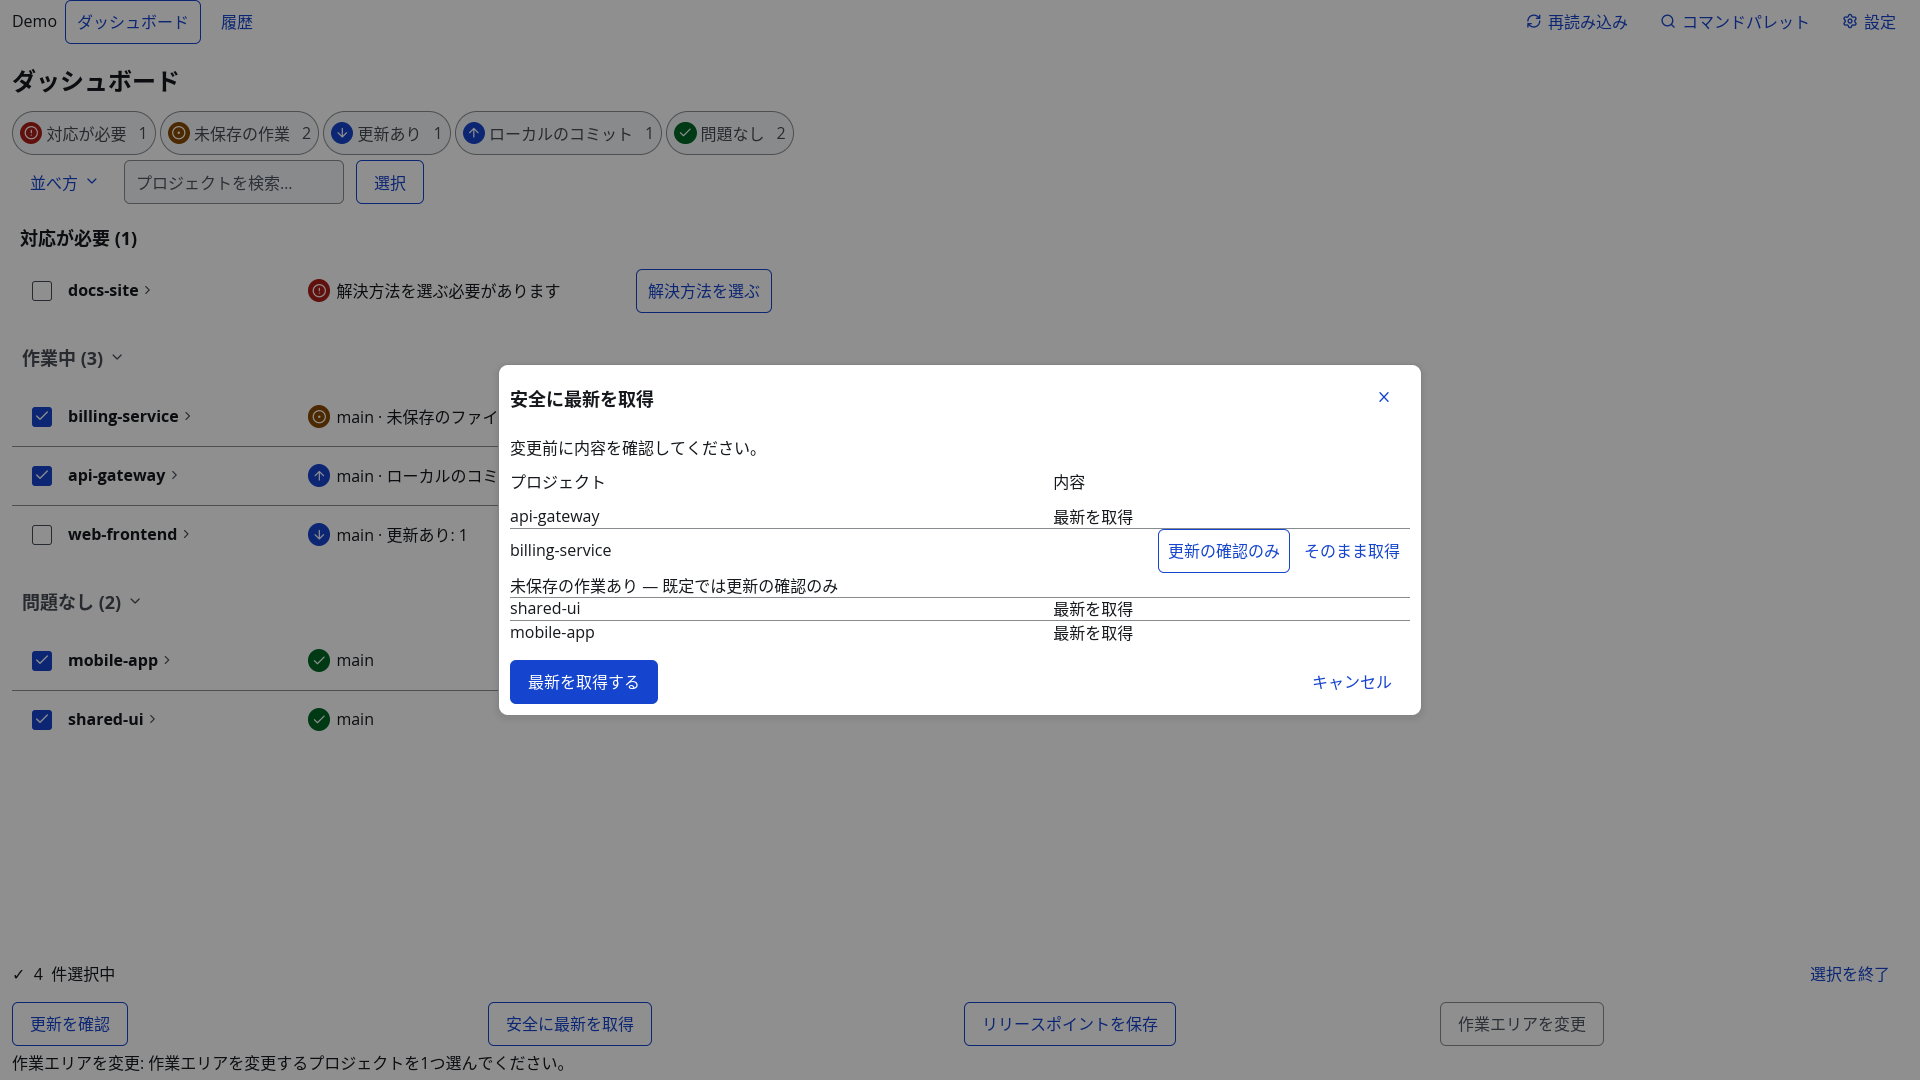
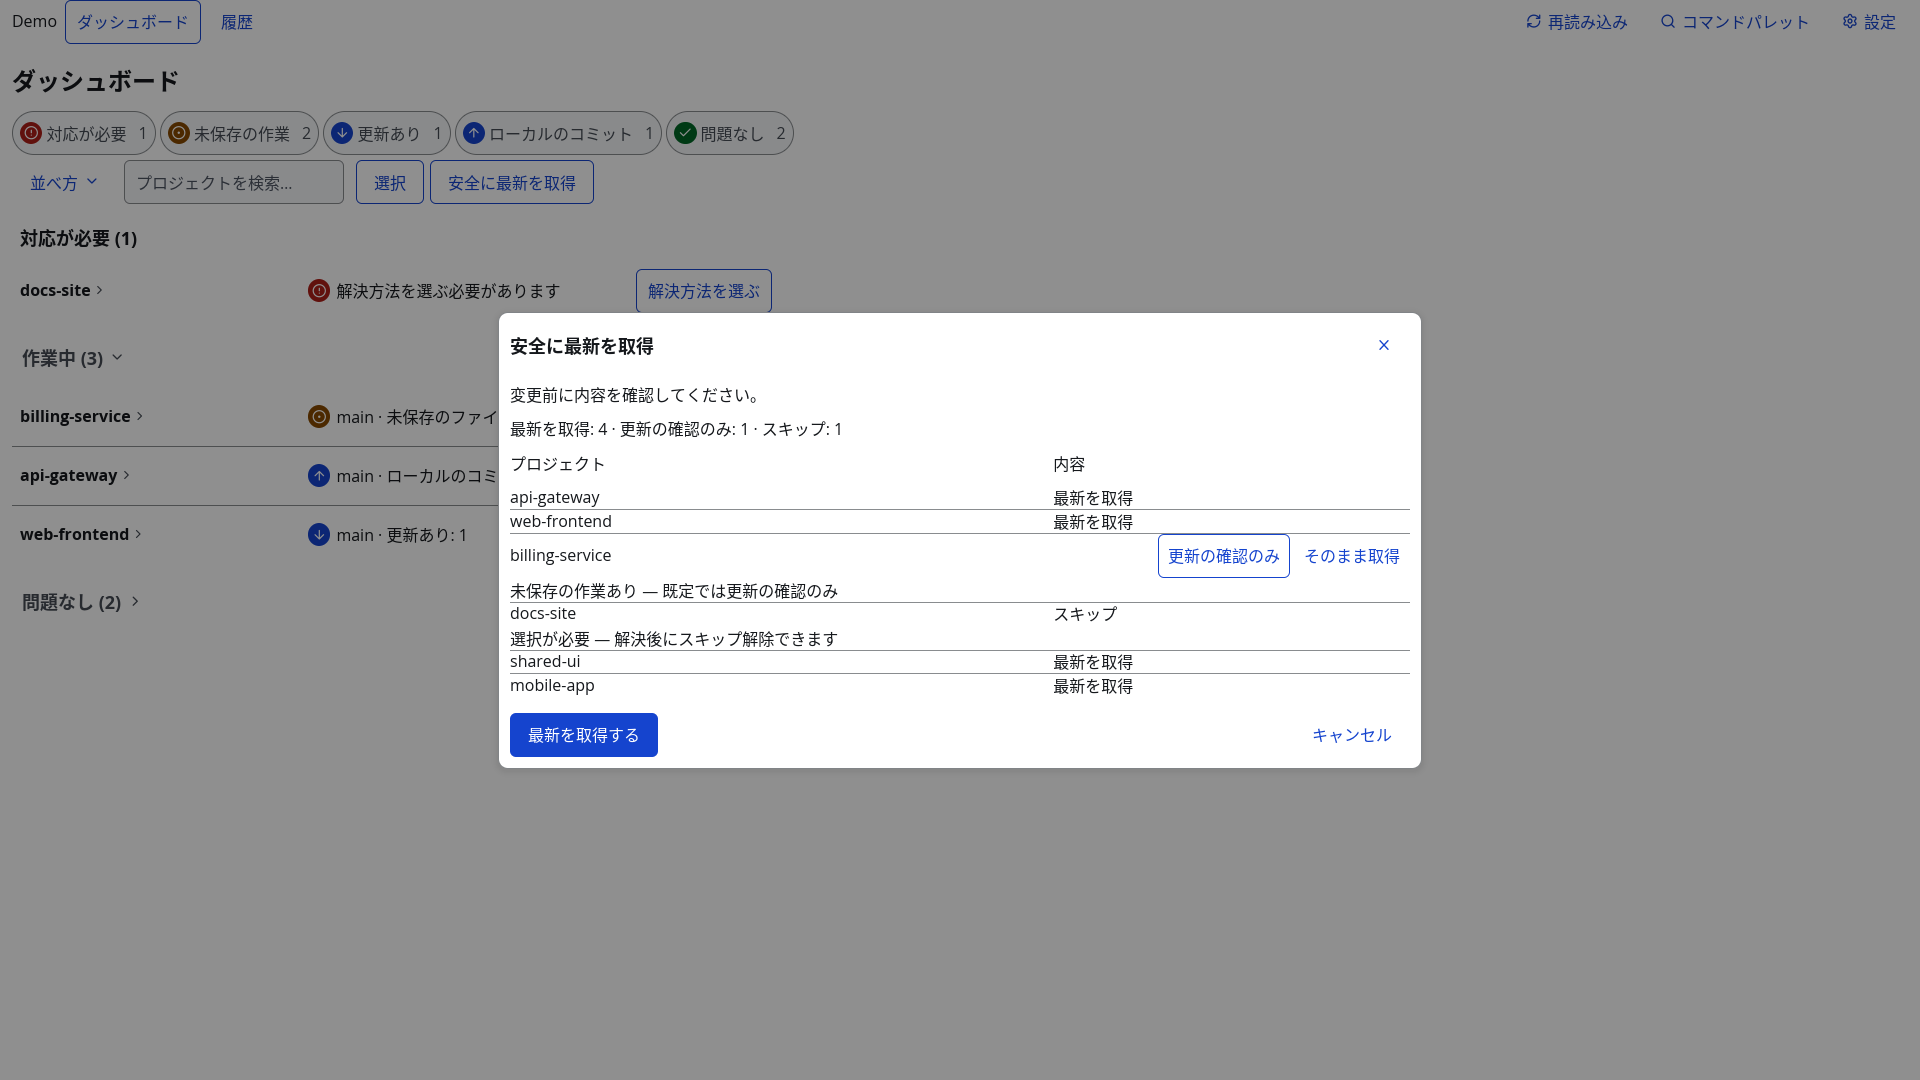
Store screenshots and README image for 0.36.0; RFC-074 marked implemented

diff --git a/rfcs/done/074-one-step-not-three.md b/rfcs/done/074-one-step-not-three.md
@@ -2,7 +2,7 @@
 
 | Field | Value |
 |---|---|
-| Status | Accepted |
+| Status | Implemented (main: fde8a80, 506f59a, 04c029b, 009e53b, 54b50e7), with Amendment A1 |
 | Priority | High - the most common wish, "bring everything up to date", takes three steps |
 | Effort | Medium - two entry points, one summary line, one row action, and where one bar is drawn |
 | Target | 0.36.0 |
